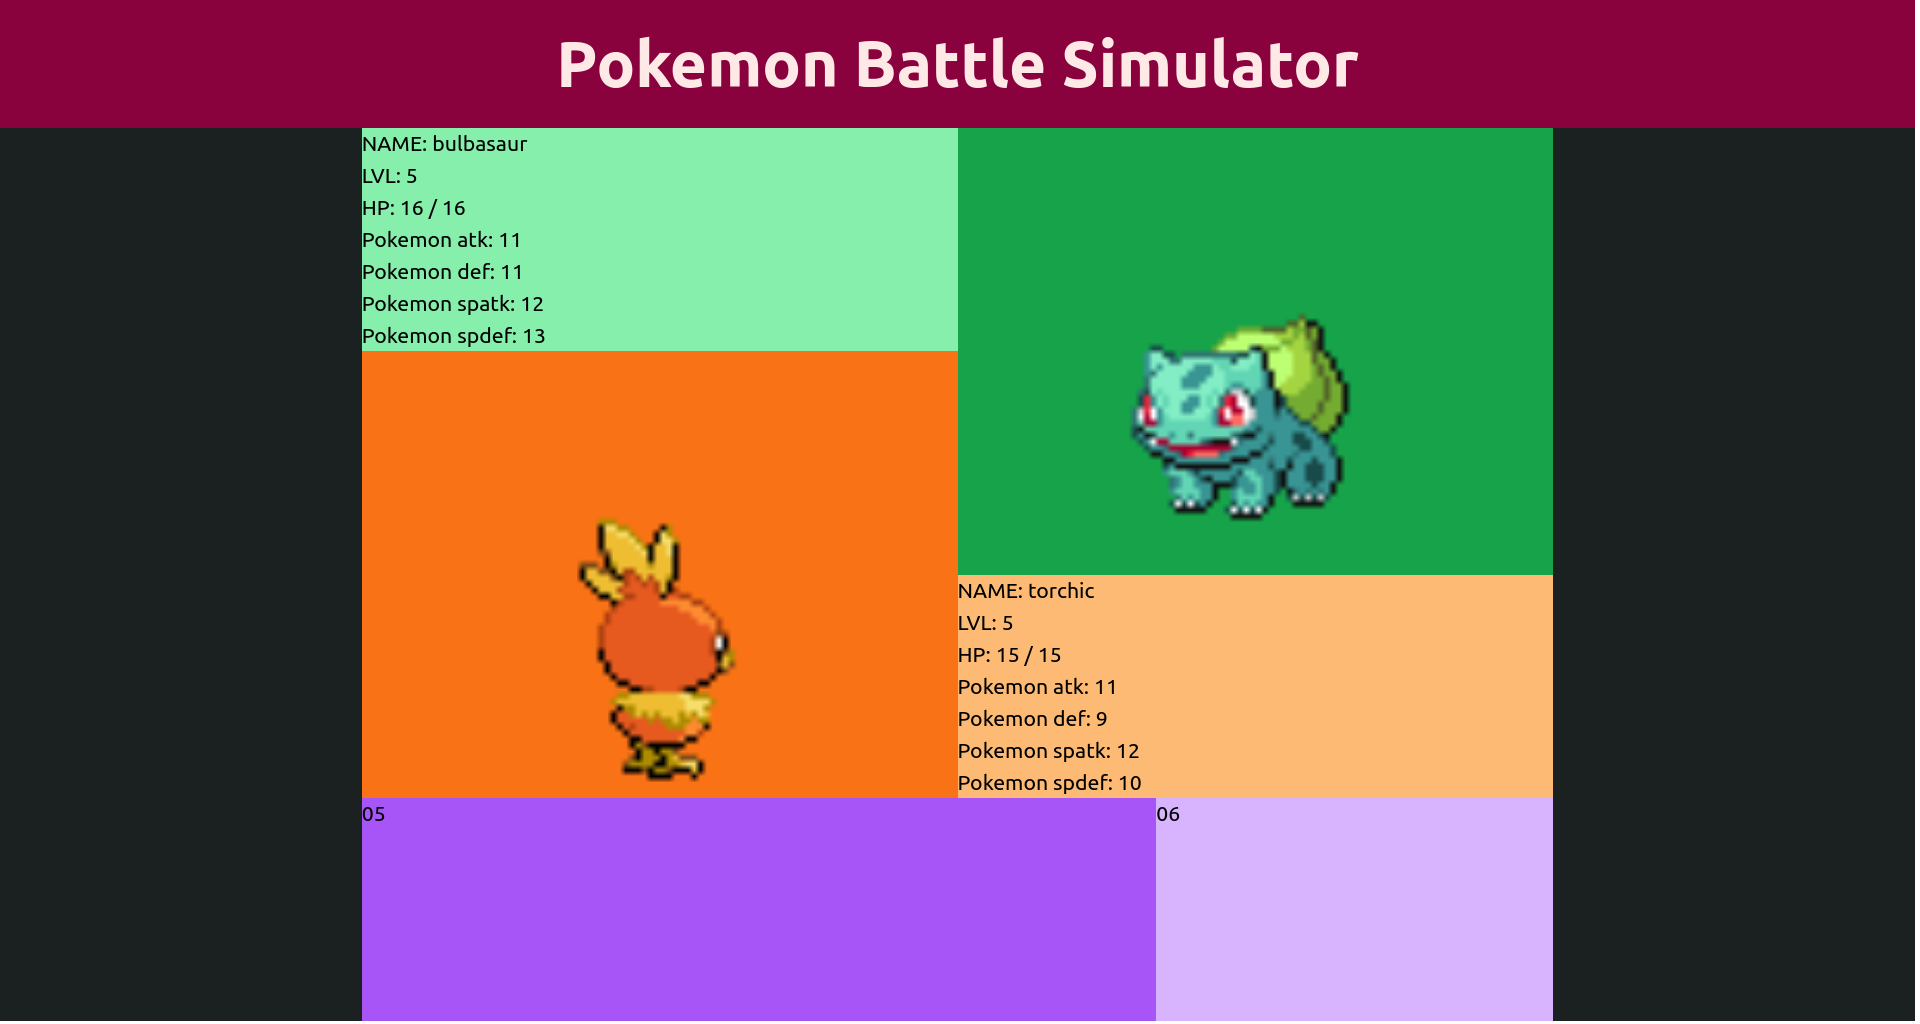
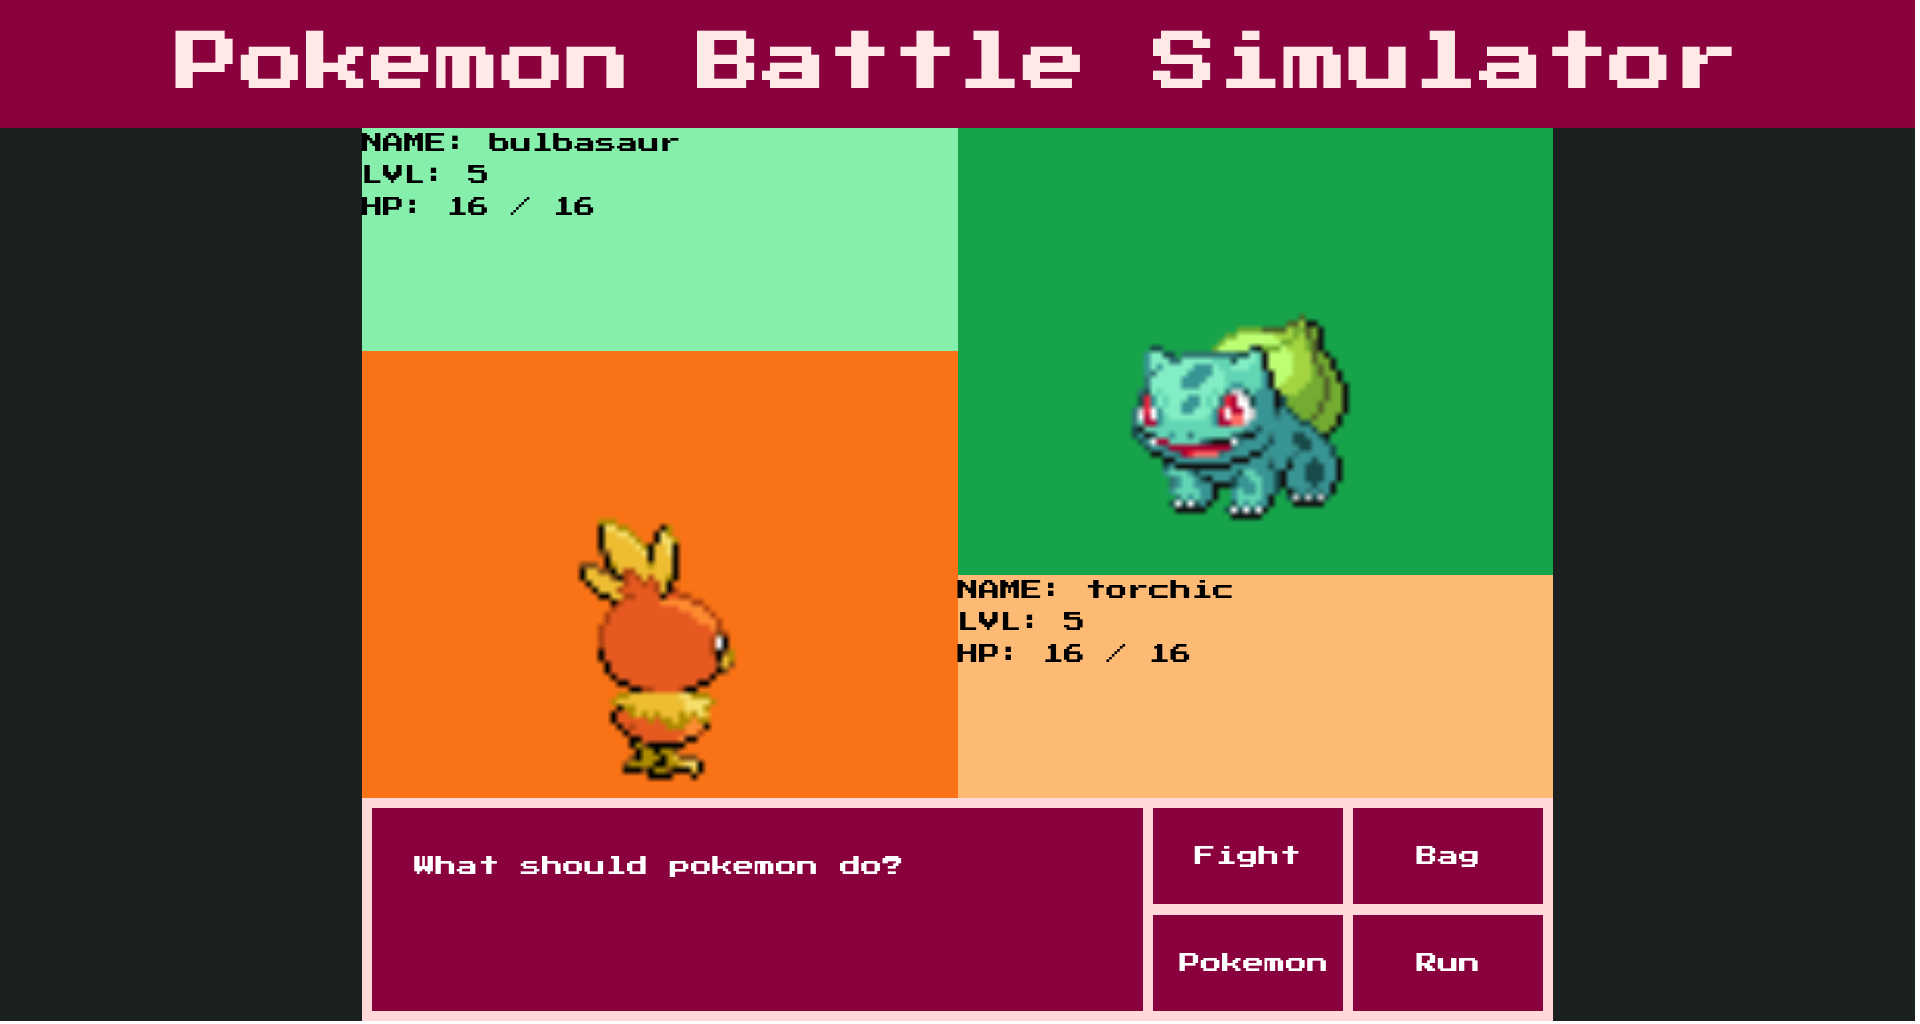
Add ConsoleLog component

diff --git a/client/src/components/battle-components/ConsoleMenu.js b/client/src/components/battle-components/ConsoleMenu.js
@@ -1,6 +1,7 @@
 import { useState, useContext } from "react";
 import { PokemonContext } from "../Battleground";
 import BattleMenu from "./BattleMenu";
+import ConsoleLog from "../ConsoleLog";
 
 function ConsoleMenu({}) {
   // myMoves, enemyMoves
@@ -11,7 +12,9 @@ function ConsoleMenu({}) {
 
   return (
     <div className="grid grid-cols-6 border-8 border-pale-custom">
-      <div className="col-start-1 col-end-5 border-r-4">Console</div>
+      <div className="col-start-1 col-end-5 border-r-8 border-pale-custom grid place-items-stretch">
+        <ConsoleLog />
+      </div>
       <div className="col-start-5 col-end-7 grid place-items-stretch">
         <BattleMenu />
       </div>

diff --git a/client/src/components/ConsoleLog.js b/client/src/components/ConsoleLog.js
@@ -1,0 +1,9 @@
+function ConsoleLog(params) {
+  return (
+    <div className="bg-wine-custom text-white">
+      <p className="p-8">What should pokemon do?</p>
+    </div>
+  );
+}
+
+export default ConsoleLog;
